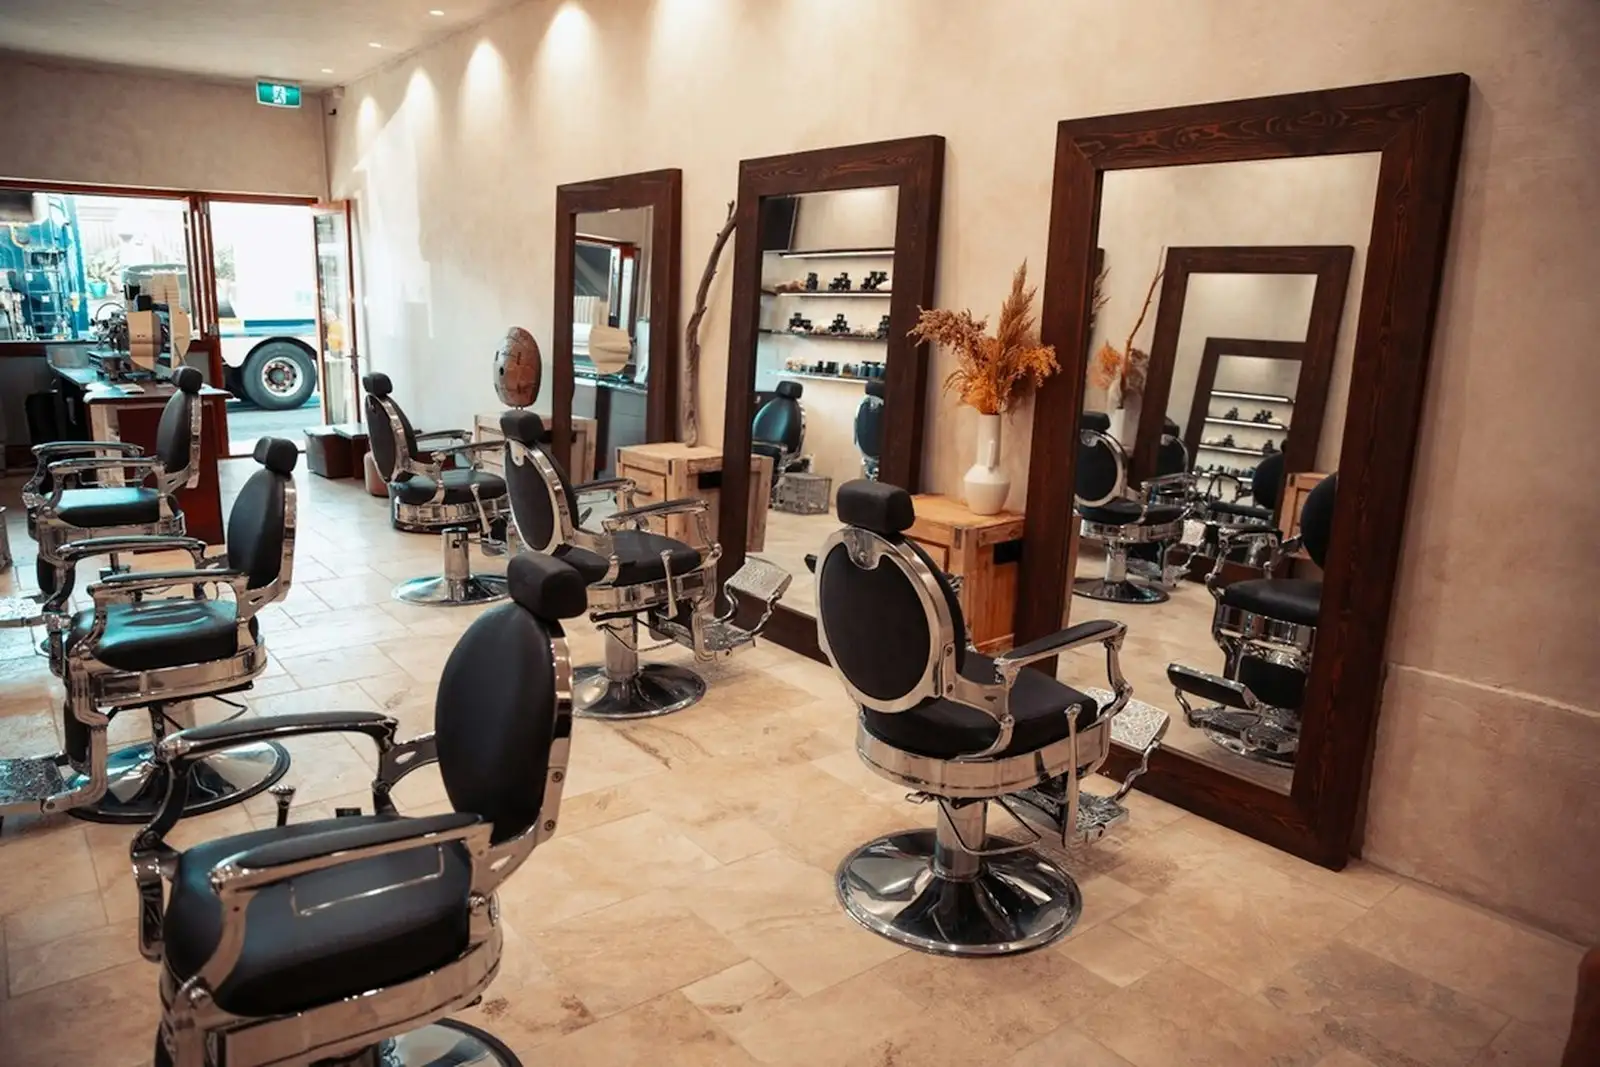
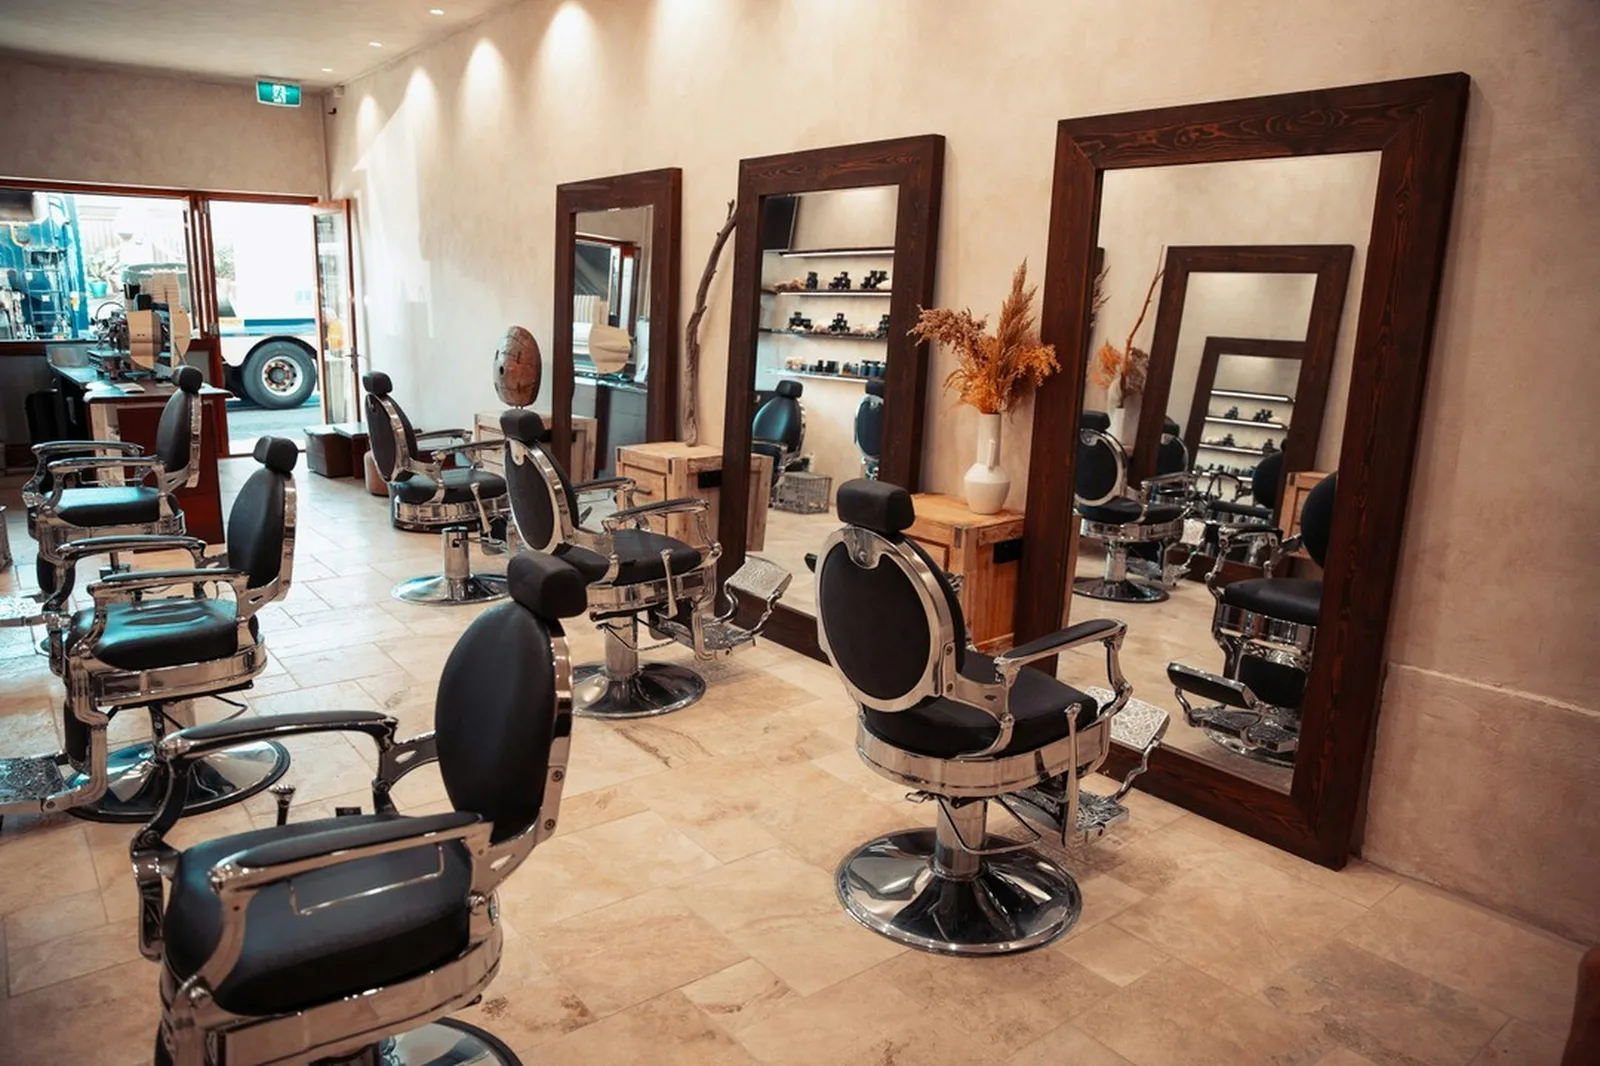
Fotos de fundo em alta resolucao (ate 2400px)

diff --git a/index.html b/index.html
@@ -55,7 +55,7 @@ nav .right{justify-content:flex-end}
 
 /* HERO */
 .hero{position:relative;height:100vh;min-height:640px;display:grid;place-items:center;overflow:hidden}
-.hero-bg{position:absolute;inset:0;width:100%;height:100%;object-fit:cover;object-position:60% 40%;z-index:0;filter:saturate(.75) brightness(.5)}
+.hero-bg{position:absolute;inset:0;width:100%;height:100%;object-fit:cover;object-position:60% 40%;z-index:0;filter:saturate(.85) brightness(.6)}
 .hero-shade{position:absolute;inset:0;z-index:0;background:radial-gradient(ellipse 45% 60% at 50% 50%,rgba(7,6,5,.55),transparent 75%),linear-gradient(180deg,rgba(7,6,5,.55),rgba(7,6,5,.2) 40%,rgba(7,6,5,.35) 70%,#070605)}
 .beam{position:absolute;top:-5%;left:50%;width:min(640px,92vw);height:95%;transform:translateX(-50%);clip-path:polygon(30% 0,70% 0,100% 100%,0 100%);background:linear-gradient(180deg,rgba(255,214,150,.02),rgba(255,200,120,.12) 70%,rgba(255,210,140,.2));animation:flicker 7s infinite}
 .floor{position:absolute;bottom:4%;left:50%;transform:translateX(-50%);width:min(720px,95vw);height:130px;background:radial-gradient(ellipse at center,rgba(255,200,120,.28),transparent 65%)}
@@ -242,7 +242,7 @@ section{padding-inline:max(6vw,calc((100vw - 1320px) / 2))}
 
 <header class="hero">
   <h1 class="sr">Mestre Barber Club, barbearia</h1>
-  <img class="hero-bg" src="img/fotos/hero-1600.webp" srcset="img/fotos/hero-800.webp 800w, img/fotos/hero-1600.webp 1600w" sizes="100vw" width="1600" height="1064" alt="" decoding="async">
+  <img class="hero-bg" src="img/fotos/hero-1600.webp" srcset="img/fotos/hero-800.webp 800w, img/fotos/hero-1600.webp 1600w, img/fotos/hero-2400.webp 2400w" sizes="100vw" width="1600" height="1064" alt="" decoding="async">
   <div class="hero-shade"></div>
   <div class="ghost-word" aria-hidden="true">MESTRE<span>BARBER</span></div>
   <div class="beam"></div>
@@ -261,7 +261,7 @@ section{padding-inline:max(6vw,calc((100vw - 1320px) / 2))}
   <span>Corte<svg viewBox="0 0 24 24"><path d="M12 0l3 9 9 3-9 3-3 9-3-9-9-3 9-3z"/></svg></span><span>Barba<svg viewBox="0 0 24 24"><path d="M12 0l3 9 9 3-9 3-3 9-3-9-9-3 9-3z"/></svg></span><span>Navalha<svg viewBox="0 0 24 24"><path d="M12 0l3 9 9 3-9 3-3 9-3-9-9-3 9-3z"/></svg></span><span>Toalha quente<svg viewBox="0 0 24 24"><path d="M12 0l3 9 9 3-9 3-3 9-3-9-9-3 9-3z"/></svg></span>
 </div></div>
 
-<section class="photo-bg" style="--img:image-set(url(img/fotos/bg-manifesto-800.webp) 1x,url(img/fotos/bg-manifesto-1600.webp) 2x)">
+<section class="photo-bg" style="--img:image-set(url(img/fotos/bg-manifesto-1600.webp) 1x,url(img/fotos/bg-manifesto-2400.webp) 2x)">
   <div class="manifesto">
     <h2 class="reveal" style="margin:0">Aqui o corte<br><em>leva o tempo</em><br>que precisa.</h2>
     <div class="reveal">
@@ -353,7 +353,7 @@ section{padding-inline:max(6vw,calc((100vw - 1320px) / 2))}
   </div>
 </section>
 
-<section class="cta photo-bg" id="agendar" style="--img:image-set(url(img/fotos/bg-agendar-800.webp) 1x,url(img/fotos/bg-agendar-1600.webp) 2x)">
+<section class="cta photo-bg" id="agendar" style="--img:image-set(url(img/fotos/bg-agendar-1600.webp) 1x,url(img/fotos/bg-agendar-2400.webp) 2x)">
   <h2 class="reveal">Sua<br><em>cadeira</em><br>te espera</h2>
   <form class="book reveal" id="book">
     <label>Nome<input name="nome" required autocomplete="name" placeholder="Seu nome"></label>
